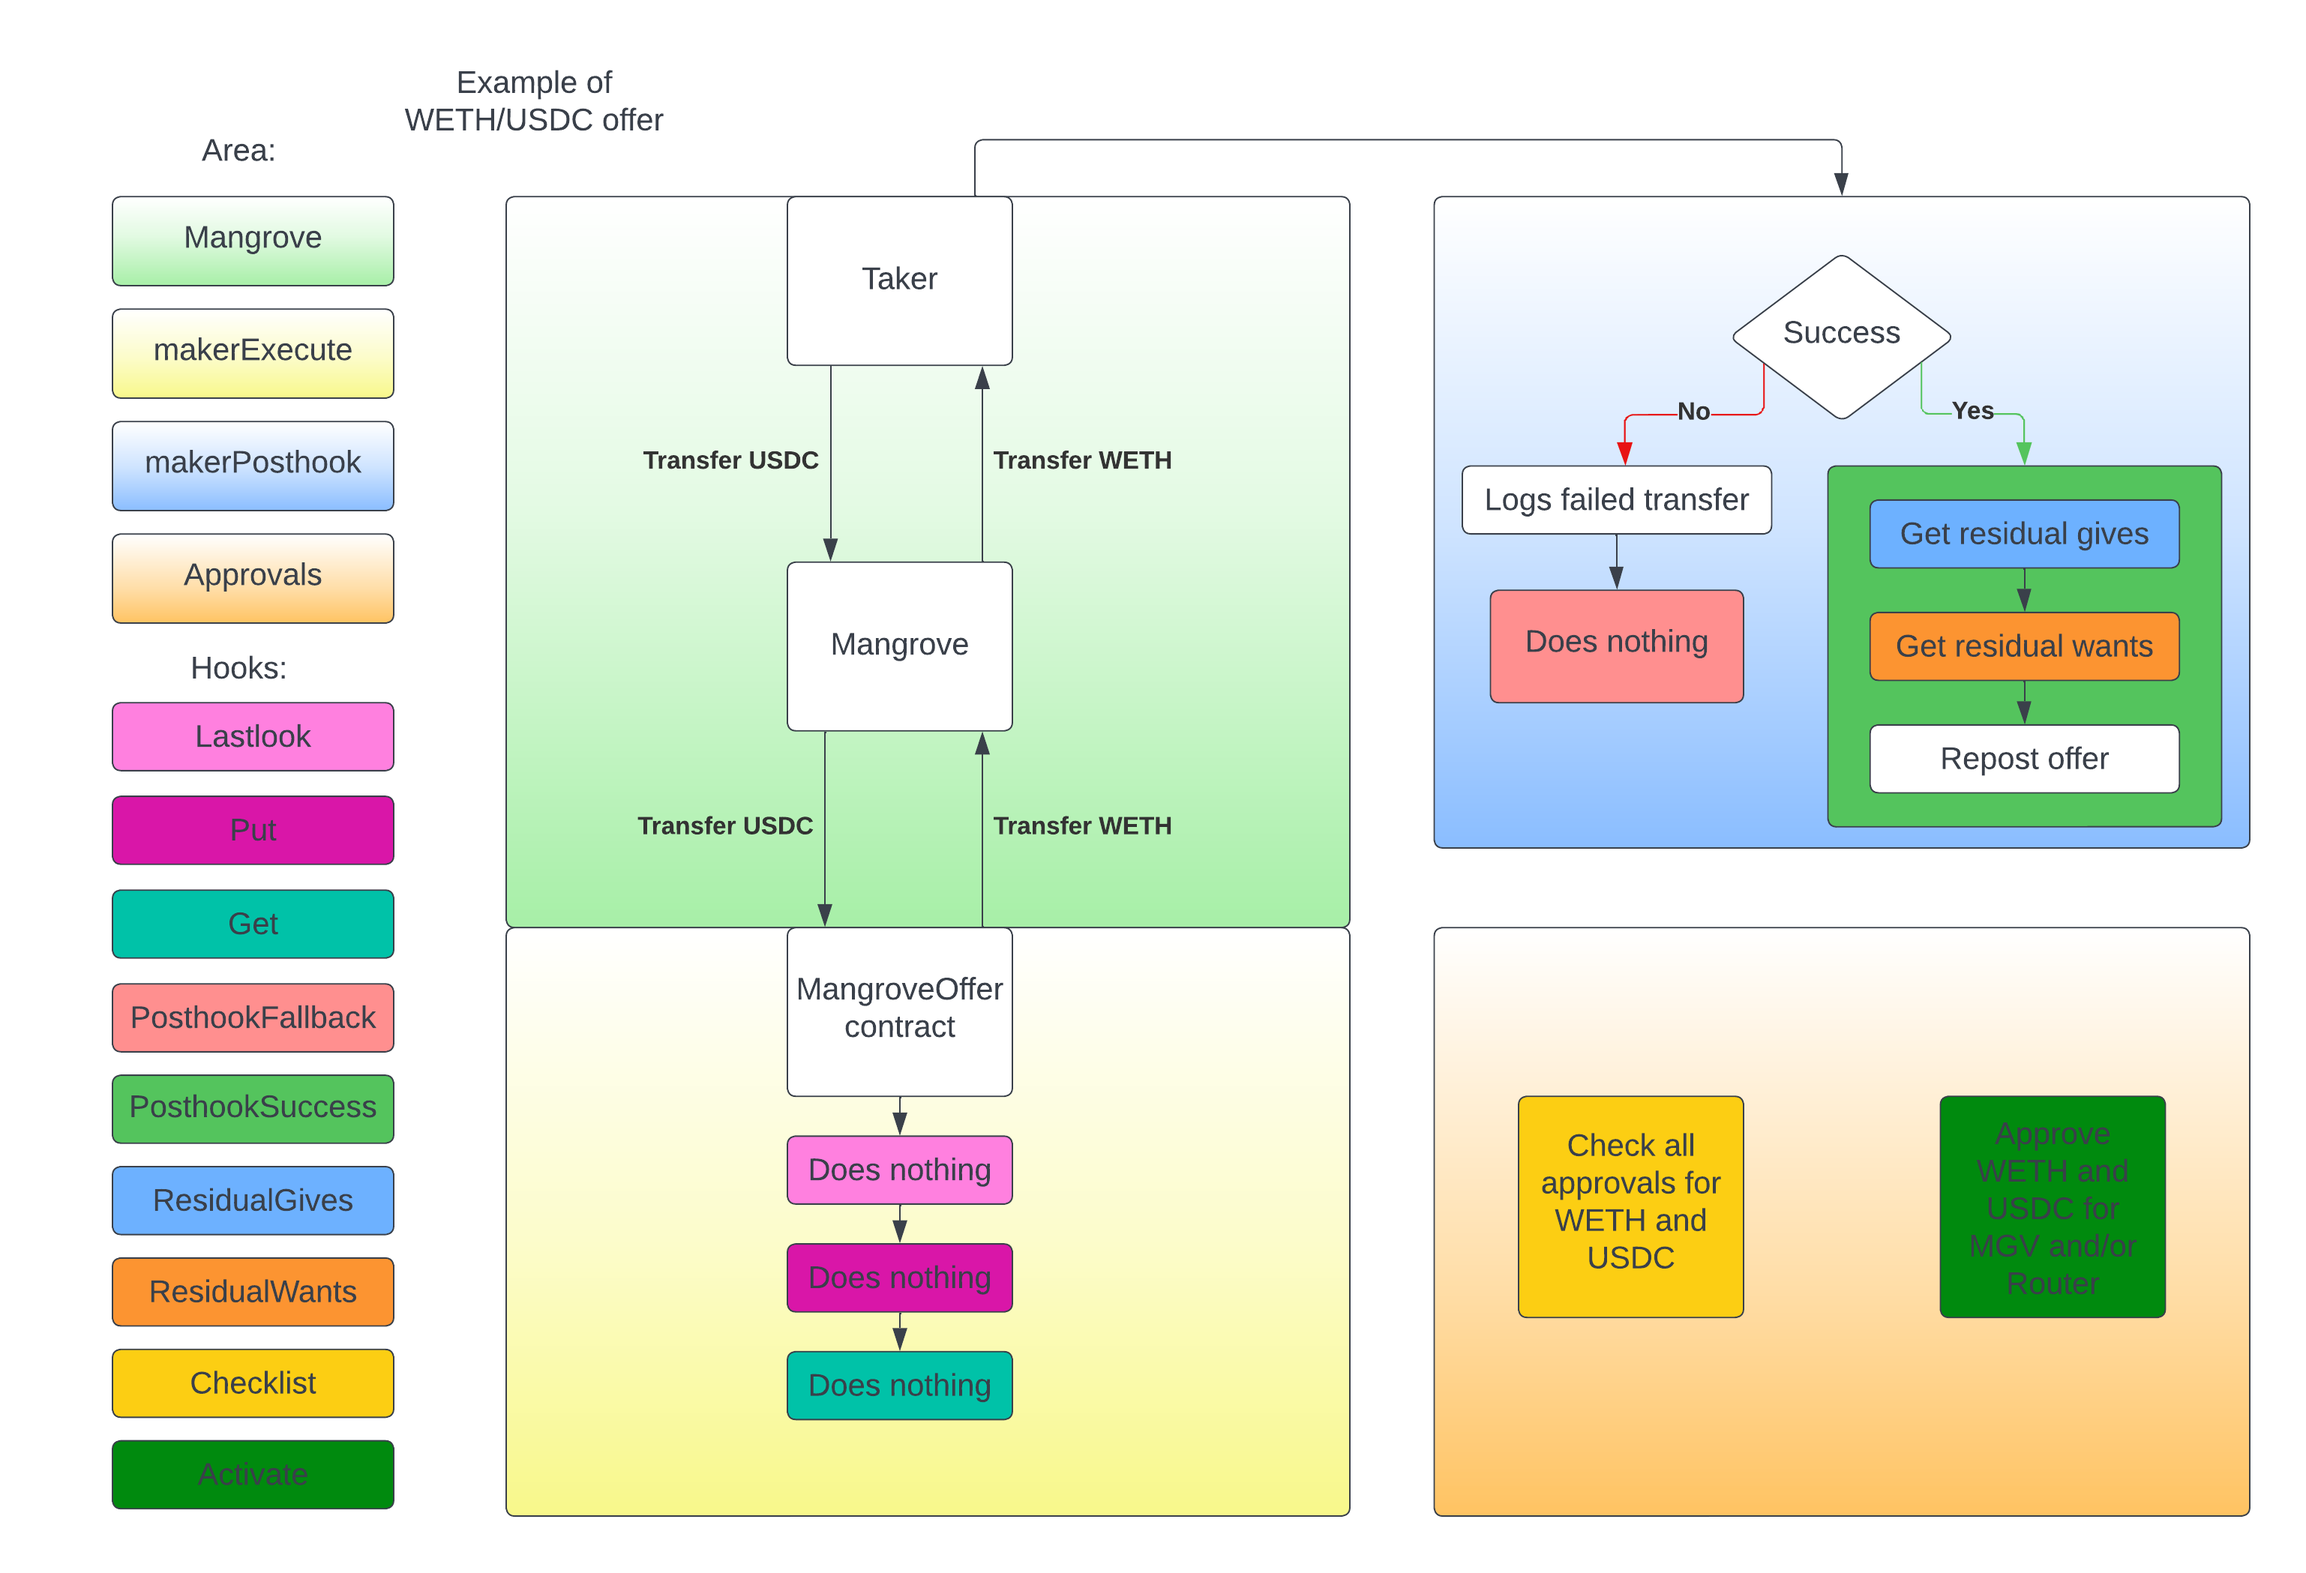
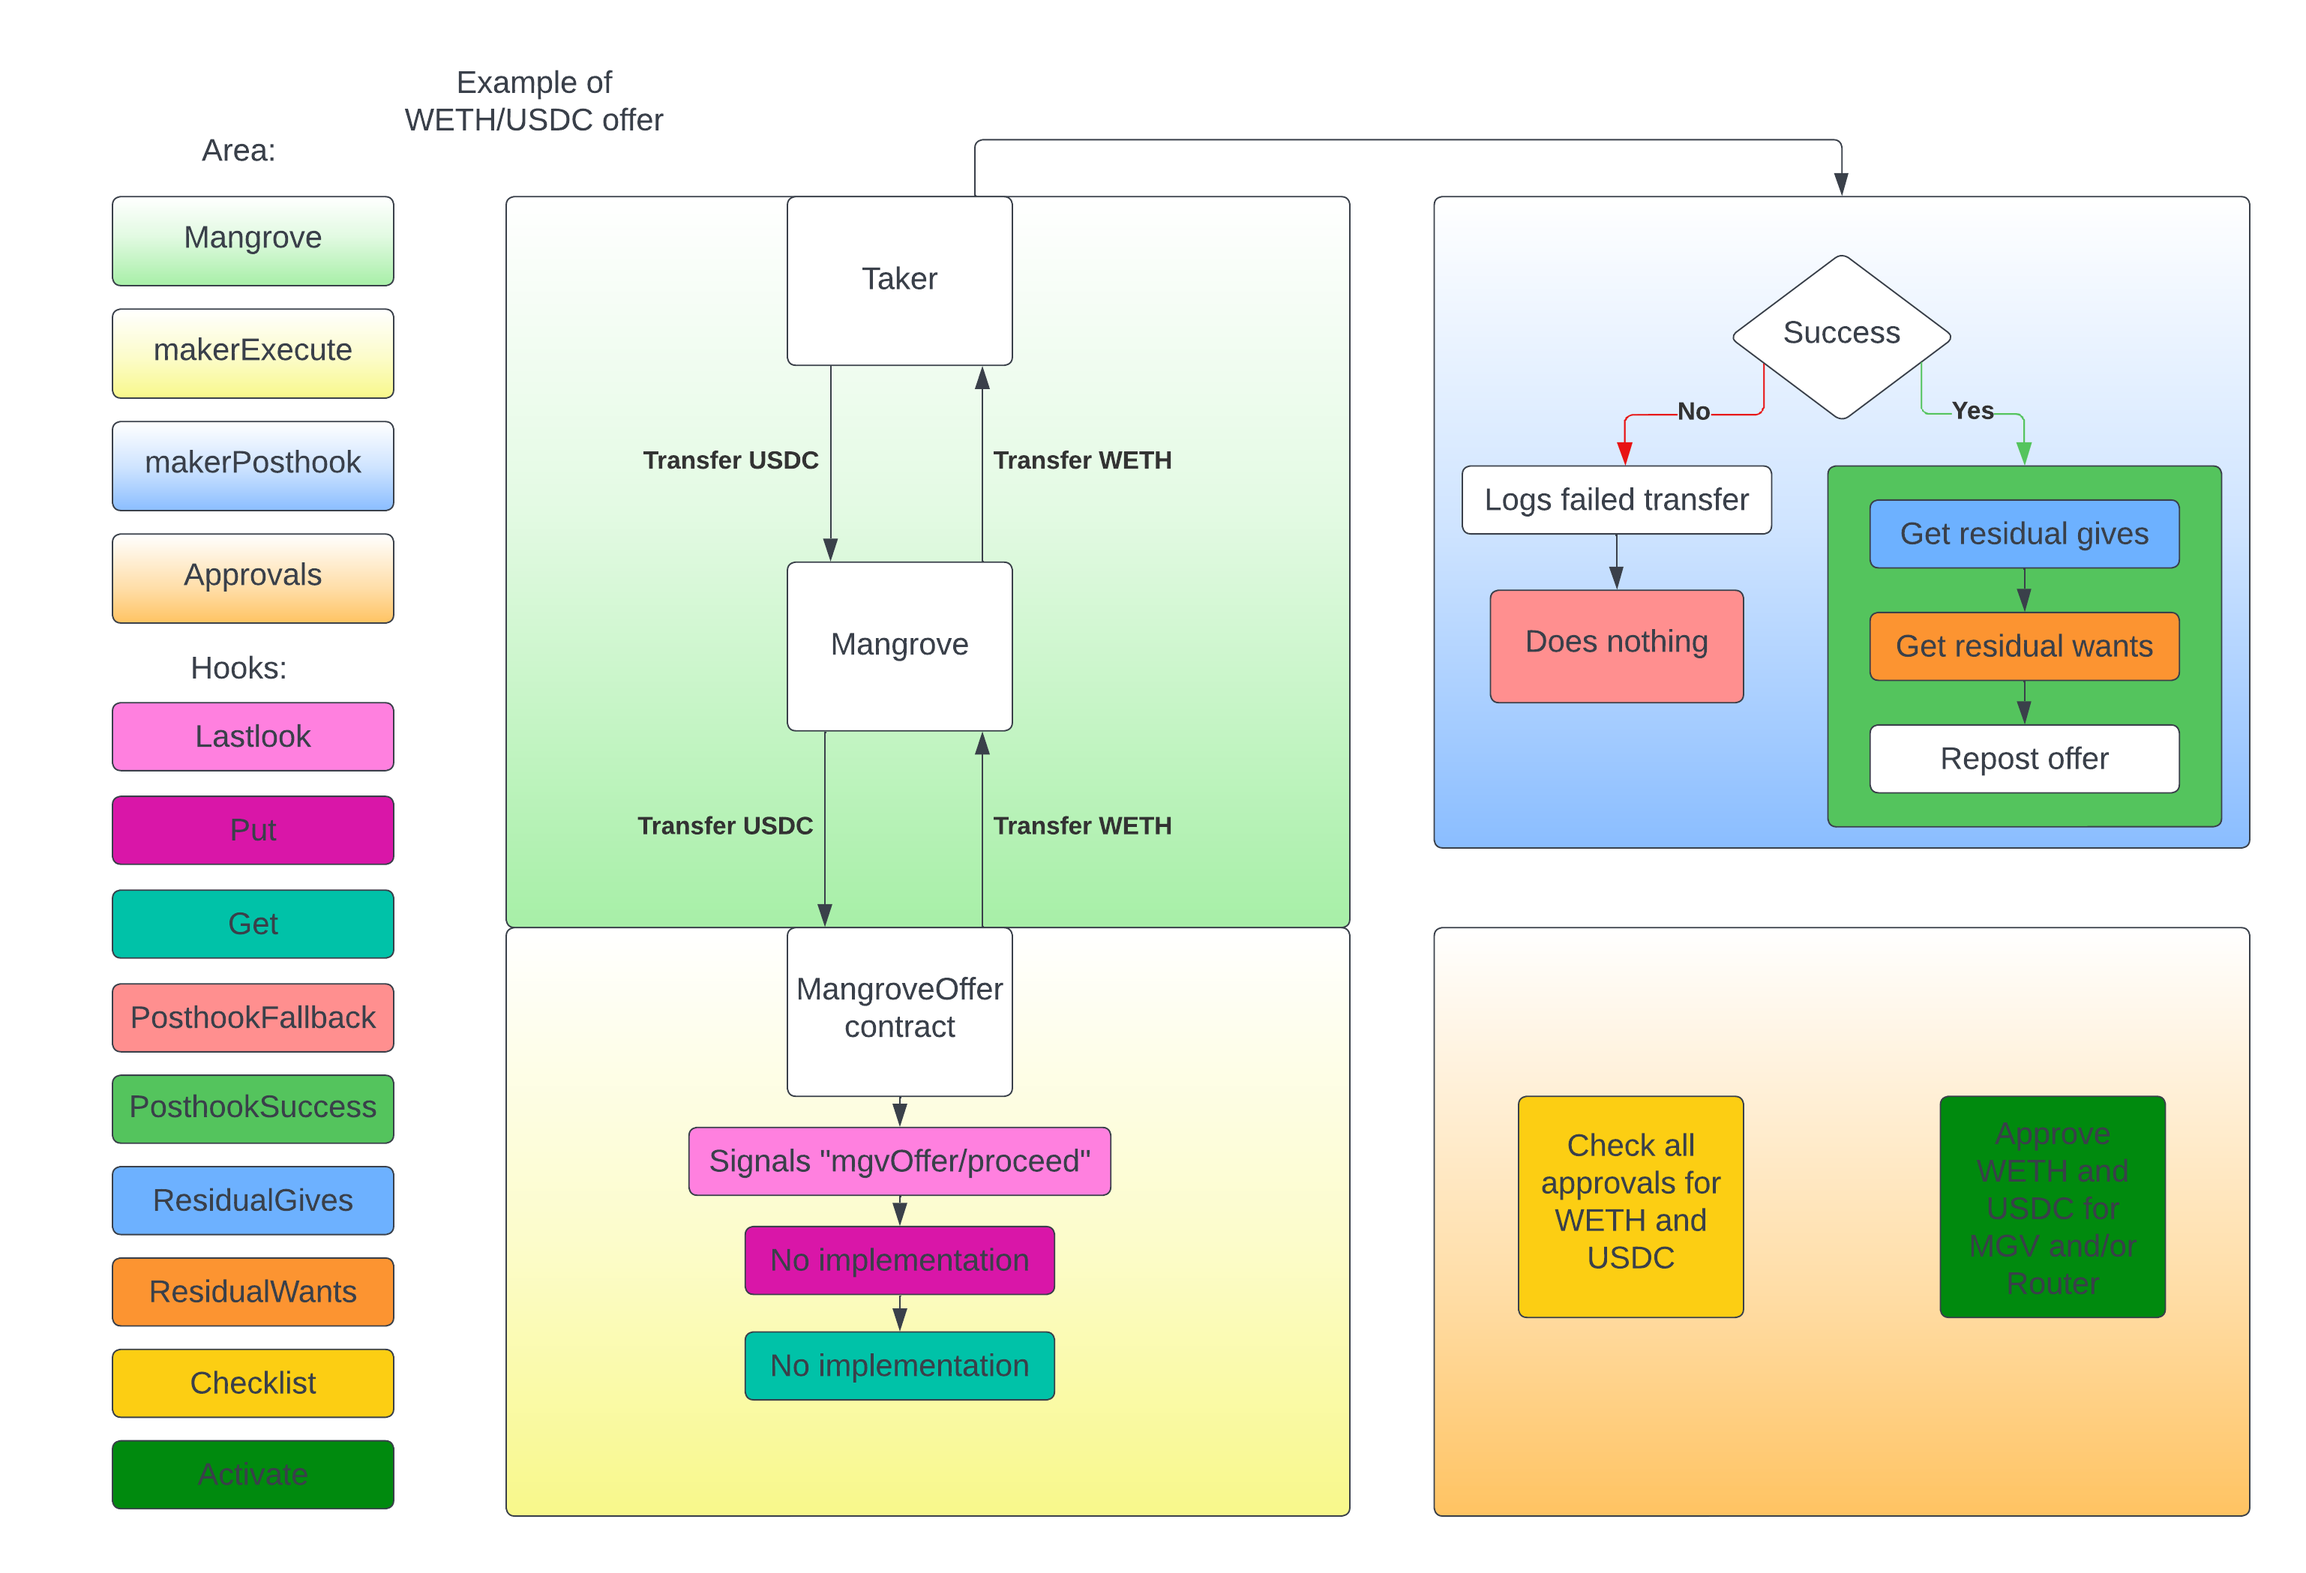
better desc of put, get and lastlook

Changed region(s): [[0.281, 0.7126, 0.4995, 0.9295]]

diff --git a/offer-maker/mangrover-offer.md b/offer-maker/mangrover-offer.md
@@ -6,7 +6,7 @@ The **reserve** is where the contract keeps its funds, it is possible to use the
 
 When an offer is taken, Mangrove transfers the funds from the taker to Mangrove and from Mangrove to the contract that posted the offer. It is not possible to hook in before or in between these 2 transfers. When these 2 transfers are done, MangroveOffer, has 3 hooks. **lastlook**, **put** and **get**. They are called in this order.
 
-**Lastlook** is meant for have a lastlook before the funds are transferred to the taker. <!--  (FIXME: maybe and example).-->
+**Lastlook** is meant for having a lastlook before the funds are transferred to the taker. It then returns a value that `makerPosthook` can use, to get information of how e.g. the markets looked, when `makerExecute` was executed. This can be useful since, `makerPosthook` may be call several orders later. See [Executing offers](executing-offers.md) for more information. <!--  (FIXME: maybe and example).-->
 
 **Put** is meant as an option for the maker to transfer the given funds from the contract to e.g. the reserve. This could be useful if you don't want to leave the funds on the contract.
 
